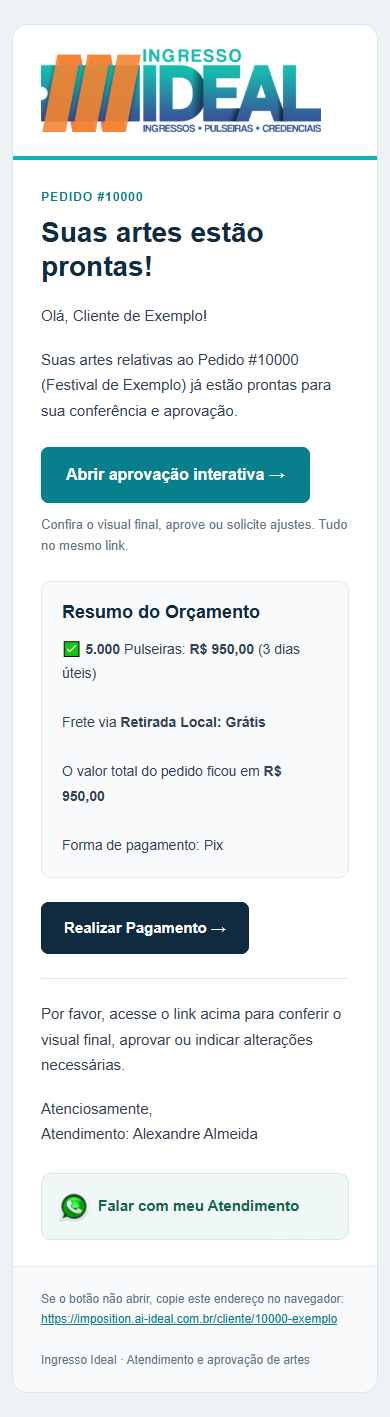
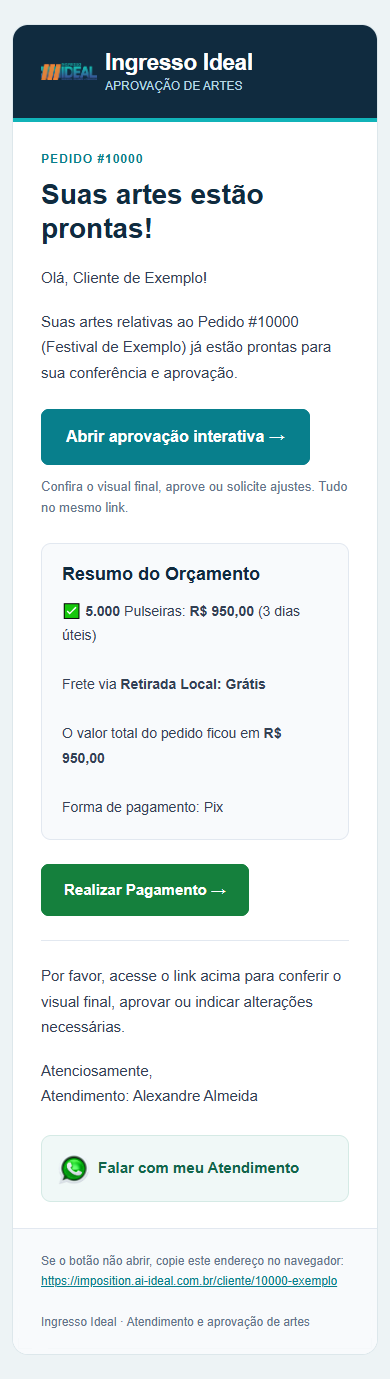
fix(email): restaurar cabecalho e destacar pagamento em verde

Changed region(s): [[0.0308, 0.0, 0.9846, 0.8731], [0.0923, 0.9043, 0.8615, 0.9666]]

diff --git a/supabase/functions/_compartilhado/email_artes_layout.ts b/supabase/functions/_compartilhado/email_artes_layout.ts
@@ -55,8 +55,8 @@ export function layoutEmailArte(texto: string, portal: string, link?: string, nu
 <table role="presentation" width="100%" cellpadding="0" cellspacing="0" style="background:#edf3f5;"><tr><td align="center" style="padding:24px 12px;">
 <!--[if mso]><table role="presentation" width="600"><tr><td><![endif]-->
 <table role="presentation" width="100%" cellpadding="0" cellspacing="0" style="max-width:600px;background:#fff;border:1px solid #dde7eb;border-radius:16px;overflow:hidden;">
-<tr><td style="background:#fff;padding:24px 28px;border-bottom:4px solid #11b3b8;">
-<img src="${LOGO_EMPRESA}" width="280" alt="Ingresso Ideal — Ingressos, Pulseiras e Credenciais" style="display:block;width:280px;max-width:100%;height:auto;border:0;">
+<tr><td style="background:#102b3f;padding:24px 28px;border-bottom:4px solid #11b3b8;">
+<table role="presentation" cellpadding="0" cellspacing="0"><tr><td width="64"><img src="${LOGO_EMPRESA}" width="56" alt="Ingresso Ideal" style="display:block;width:56px;height:auto;border:0;"></td><td style="color:#fff;font-family:Arial,Helvetica,sans-serif;"><strong style="font-size:23px;letter-spacing:-0.5px;">Ingresso Ideal</strong><br><span style="font-size:12px;color:#b7d9e4;">APROVAÇÃO DE ARTES</span></td></tr></table>
 </td></tr>
 <tr><td style="padding:30px 28px 8px;">
 ${numero ? `<p style="margin:0 0 12px;font-size:12px;font-weight:bold;letter-spacing:1px;color:#087f8c;">PEDIDO #${escapar(numero)}</p>` : ""}
@@ -67,7 +67,7 @@ ${intro}
 ${link ? '<p style="margin:12px 0 0;font-size:13px;line-height:1.6;color:#64748b;">Confira o visual final, aprove ou solicite ajustes. Tudo no mesmo link.</p>' : ""}
 </td></tr></table>
 ${resumoHtml ? `<table role="presentation" width="100%" cellpadding="0" cellspacing="0" style="margin-bottom:24px;"><tr><td style="padding:20px;background:#f8fafc;border:1px solid #e2e8f0;border-radius:10px;"><h2 style="margin:0 0 14px;color:#102b3f;font-size:18px;">Resumo do Orçamento</h2><div style="color:#334155;font-size:14px;line-height:1.75;overflow-wrap:anywhere;">${resumoHtml}</div></td></tr></table>` : ""}
-${pagamento ? `<table role="presentation" cellpadding="0" cellspacing="0" style="margin-bottom:24px;"><tr><td align="center" bgcolor="#102b3f" style="border-radius:8px;mso-padding-alt:14px 22px;"><a href="${escapar(pagamento)}" style="display:inline-block;padding:14px 22px;border:1px solid #102b3f;border-radius:8px;font-size:15px;font-weight:bold;line-height:22px;color:#fff;text-decoration:none;">Realizar Pagamento &rarr;</a></td></tr></table>` : ""}
+${pagamento ? `<table role="presentation" cellpadding="0" cellspacing="0" style="margin-bottom:24px;"><tr><td align="center" bgcolor="#15803d" style="border-radius:8px;mso-padding-alt:14px 22px;"><a href="${escapar(pagamento)}" style="display:inline-block;padding:14px 22px;border:1px solid #15803d;border-radius:8px;font-size:15px;font-weight:bold;line-height:22px;color:#fff;text-decoration:none;">Realizar Pagamento &rarr;</a></td></tr></table>` : ""}
 ${detalhes ? `<div style="border-top:1px solid #e2e8f0;padding-top:22px;">${detalhes}</div>` : ""}
 </td></tr>
 <tr><td style="padding:0 28px 26px;"><table role="presentation" width="100%" cellpadding="0" cellspacing="0"><tr><td style="background:#f0f8f7;border:1px solid #d5eae5;border-radius:10px;"><a href="${escapar(whatsapp)}" style="display:block;padding:16px;color:#12664b;font-size:15px;font-weight:bold;line-height:32px;text-decoration:none;"><img src="${LOGO_WHATSAPP}" width="32" height="32" alt="WhatsApp" style="vertical-align:middle;border:0;margin-right:8px;">Falar com meu Atendimento</a></td></tr></table></td></tr>

diff --git a/docs/registro-2026-09-09-email-cabecalho-verde.md b/docs/registro-2026-09-09-email-cabecalho-verde.md
@@ -1,0 +1,20 @@
+# Ajuste do cabeçalho e pagamento do e-mail — 09/09/2026
+
+Pedido: manter o estilo anterior do cabeçalho, substituindo apenas a logo, e
+deixar o botão Realizar Pagamento verde.
+
+- Restaurados fundo azul-escuro, divisor turquesa, nome Ingresso Ideal e subtítulo
+  APROVAÇÃO DE ARTES. Logo oficial já fornecida, à esquerda, sem distorcer proporção.
+- Botão de pagamento com fundo e borda verdes (`#15803d`), texto branco e mesmo
+  endereço do cliente na aba Pagar (`#pagamento`).
+- Alteração restrita ao template HTML do servidor. Frontend permanece v842;
+  assinatura por atendente, orçamento, aprovação e WhatsApp preservados.
+- Oito testes existentes de layout/MIME passaram. Prévias em 760 e 390 pixels
+  conferidas, imagens carregadas, sem transbordamento, cor do botão verificada.
+- Antes de publicar, 13 arquivos TypeScript da função remota `painel` conferidos
+  contra a base Git, sem divergências. Nenhum e-mail real enviado nos testes.
+
+Publicação no mesmo projeto Supabase `vwbtitjlpelrcnsytzqw`, função `painel`.
+Recuperação: reverter esta alteração do template e republicar a função.
+Capturas atualizadas em `design/email-aprovacao-desktop.png` e
+`design/email-aprovacao-mobile.png`.
